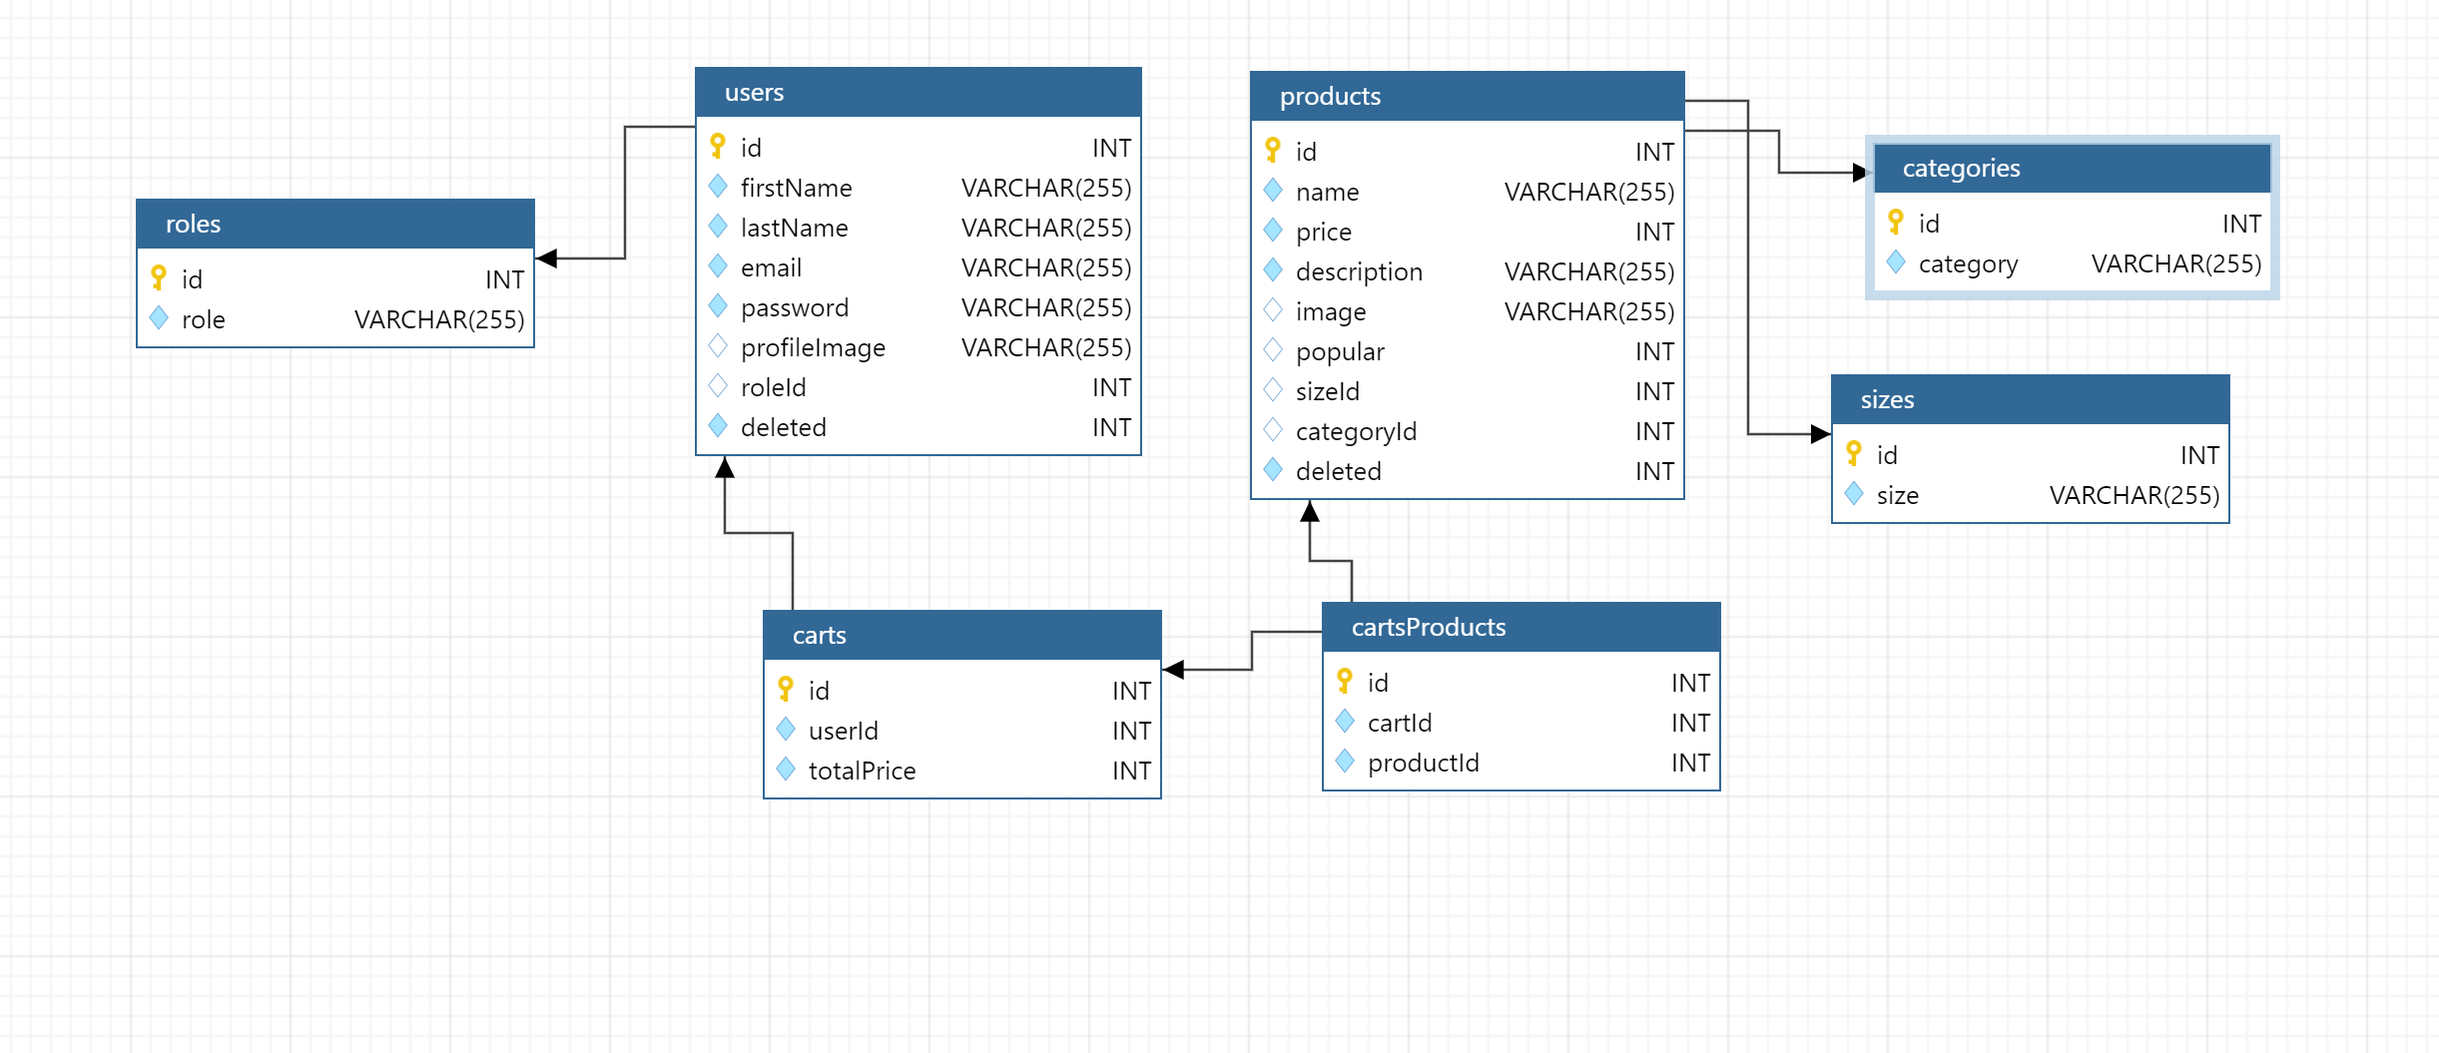
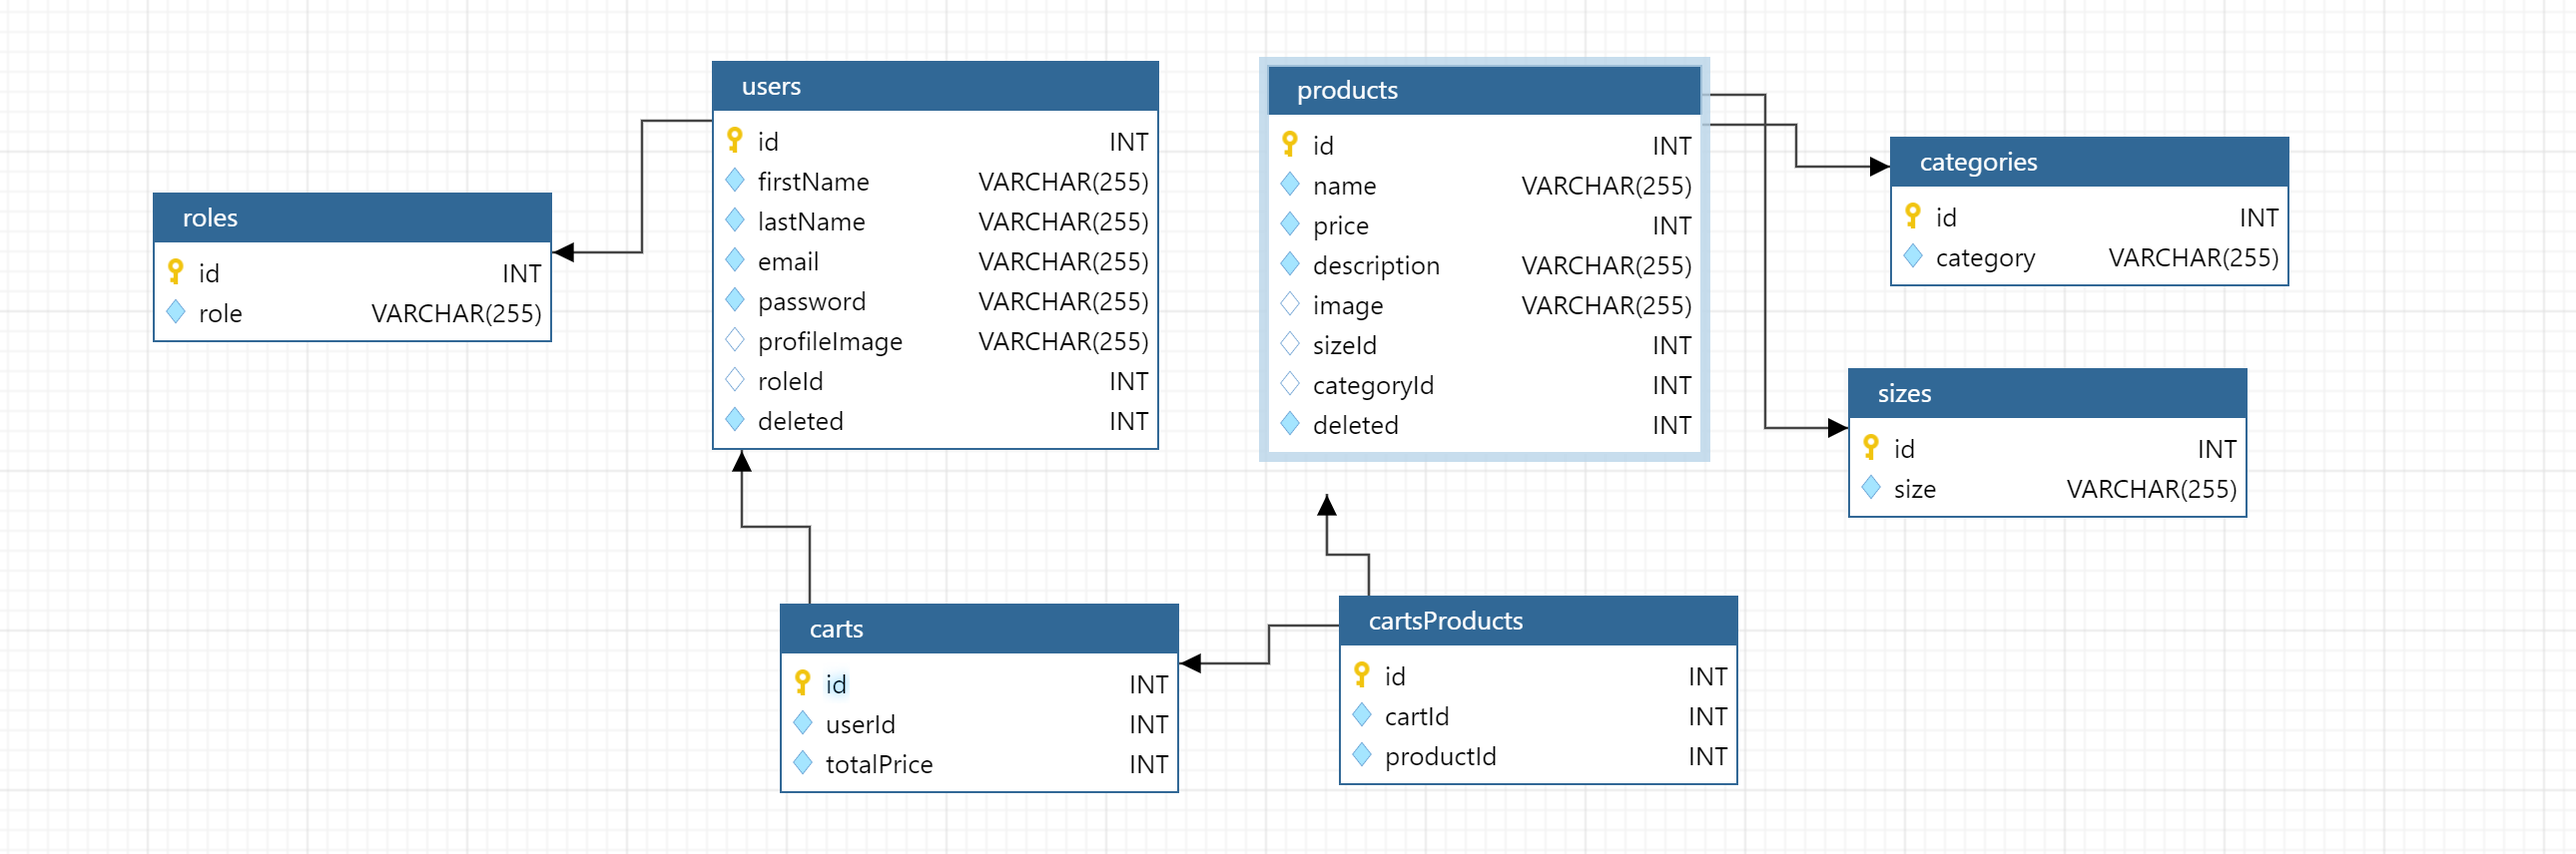
quito col popular de la tabla products y modifico los archivos que se vinculan + avanzo con CRUD Products

diff --git a/src/controllers/productsController.js b/src/controllers/productsController.js
@@ -32,8 +32,7 @@ const productController = {
             name: req.body.nombre,
             price: req.body.precio,
             description: req.body.descripcion,            
-            image: req.body.foto, 
-            //popular: req.body.??,
+            image: req.body.foto,
             //sizeId: req.body.??,
             category: req.body.categoria,
             deleted: 0
@@ -65,20 +64,18 @@ const productController = {
         
     },
 
-    abmDetalle: (req, res) => {
-        const id = req.params.id;
-        const producto = products.find(product => {
-            return product.id == id;
-        })
-        res.render('abmDetalle', { detalleDeProducto: producto });
+    abmDetalle: function(req, res){
+        db.Products.findByPk(req.params.id)
+            .then(function(product){
+                return res.render("abmDetalle", {detalleDeProducto: product});
+            });
     },
-    abmEditar: (req, res) => {
-        const id = req.params.id;
-        const producto = products.find(product => {
-            return product.id == id;
-        })
-        res.render('abmEditar', { productoAEditar: producto });
-    },
+    abmEditar: function(req, res){
+        db.Products.findByPk(req.params.id)
+            .then(function(product){
+                return res.render('abmEditar', { productoAEditar: product });
+            })
+    },    
     abmEditado: (req, res) => {
         // agregar metodo
         let id = req.params.id;
